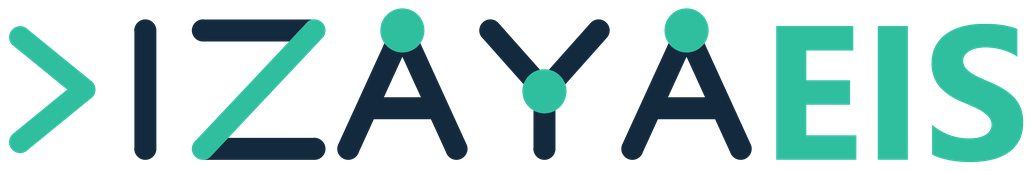
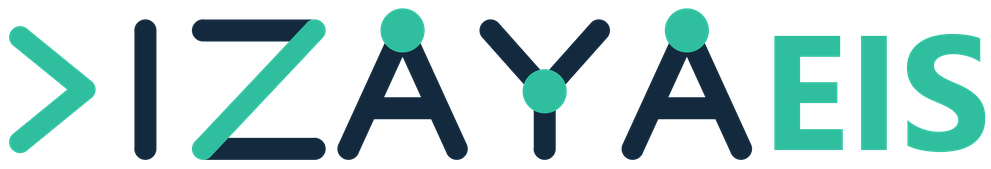
Scale down EIS text — previous pass was still oversized
Also fixes the actual mobile bug: the 640px/400px breakpoints never
had an .mk-eis-text override added despite the comment claiming they
would, so EIS stayed full-size while the wordmark shrank underneath
it. Adds those overrides now, and reduces the base/footer/BrandLockup
ratios and the newsletter's raster logo to match.

diff --git a/frontend/src/styles/marketing.css b/frontend/src/styles/marketing.css
@@ -48,7 +48,7 @@
    .mk-nav-logo at each breakpoint below — otherwise EIS stays fixed while
    the wordmark shrinks and ends up looking oversized on mobile. Ratio is
    ~0.87 * the wordmark's rendered height at each width. */
-.mk-eis-text { font-size: 27px; }
+.mk-eis-text { font-size: 23px; }
 .mk-nav-slogan { font-size: 11px; font-weight: 600; letter-spacing: 0.8px; text-transform: uppercase; color: var(--mk-slate); }
 .mk-page .ilg-n { stroke: var(--mk-navy); fill: none; stroke-width: 13; stroke-linecap: round; stroke-linejoin: round; }
 .mk-page .ilg-m { stroke: var(--mk-mint); fill: none; stroke-width: 13; stroke-linecap: round; stroke-linejoin: round; }
@@ -218,7 +218,7 @@
 .mk-footer-inner { max-width: 1160px; margin: 0 auto; display: grid; grid-template-columns: 1.4fr 1fr 1fr; gap: 40px; }
 .mk-footer-brand { display: flex; align-items: flex-start; margin-bottom: 14px; }
 .mk-footer-brand .mk-nav-logo { width: 88px; }
-.mk-footer-brand .mk-eis-text { font-size: 22px; }
+.mk-footer-brand .mk-eis-text { font-size: 19px; }
 .mk-footer-brand .mk-nav-slogan { display: none; }
 .mk-footer-blurb { font-size: 14px; color: var(--mk-slate); line-height: 1.6; max-width: 320px; }
 .mk-footer h3 { font-size: 13px; text-transform: uppercase; letter-spacing: 0.5px; color: var(--mk-navy); margin-bottom: 14px; }
@@ -332,6 +332,7 @@
   .mk-nav, .mk-hero-band, .mk-home-hero, .mk-section, .mk-app-cta, .mk-footer { padding-left: 20px; padding-right: 20px; }
   .mk-cta-band { padding: 36px 26px; }
   .mk-nav-logo { width: 84px; }
+  .mk-eis-text { font-size: 18px; }
   .mk-nav-right { gap: 12px; }
   .mk-nav-cta { padding: 8px 14px; font-size: 12.5px; }
 }
@@ -339,6 +340,7 @@
 @media (max-width: 400px) {
   .mk-nav { padding-left: 14px; padding-right: 14px; }
   .mk-nav-logo { width: 64px; }
+  .mk-eis-text { font-size: 14px; }
   .mk-nav-right { gap: 8px; }
   .mk-nav-login { font-size: 12px; }
   .mk-nav-cta { padding: 7px 11px; font-size: 11.5px; }

diff --git a/frontend/public/newsletter/eis-newsletter-trial-campaign.html b/frontend/public/newsletter/eis-newsletter-trial-campaign.html
@@ -111,7 +111,7 @@
                     <td align="left" valign="middle" style="padding:0;">
                       <table role="presentation" cellpadding="0" cellspacing="0" border="0"><tr>
                     <td style="padding:0; line-height:0; vertical-align:middle;">
-                      <img src="https://progressive-app-vert.vercel.app/newsletter/assets/img-01.png?v=3" width="157" height="26" alt="Izaya EIS" style="display:block; height:26px; width:auto; border:0;">
+                      <img src="https://progressive-app-vert.vercel.app/newsletter/assets/img-01.png?v=4" width="153" height="26" alt="Izaya EIS" style="display:block; height:26px; width:auto; border:0;">
                     </td>
                     <td style="padding:0 0 0 12px; vertical-align:middle; border-left:1px solid #E2E8F0; padding-left:12px;">
                       <p style="margin:0; font-family: -apple-system, BlinkMacSystemFont, 'Segoe UI', Helvetica, Arial, sans-serif; font-size: 12px; font-weight: 700; letter-spacing: 0.03em;" class="ink-muted">EARLY INTERVENTION<br>SIMPLIFIED</p>

diff --git a/frontend/public/newsletter/eis-newsletter.html b/frontend/public/newsletter/eis-newsletter.html
@@ -111,7 +111,7 @@
                     <td align="left" valign="middle" style="padding:0;">
                       <table role="presentation" cellpadding="0" cellspacing="0" border="0"><tr>
                     <td style="padding:0; line-height:0; vertical-align:middle;">
-                      <img src="https://progressive-app-vert.vercel.app/newsletter/assets/img-01.png?v=3" width="157" height="26" alt="Izaya EIS" style="display:block; height:26px; width:auto; border:0;">
+                      <img src="https://progressive-app-vert.vercel.app/newsletter/assets/img-01.png?v=4" width="153" height="26" alt="Izaya EIS" style="display:block; height:26px; width:auto; border:0;">
                     </td>
                     <td style="padding:0 0 0 12px; vertical-align:middle; border-left:1px solid #E2E8F0; padding-left:12px;">
                       <p style="margin:0; font-family: -apple-system, BlinkMacSystemFont, 'Segoe UI', Helvetica, Arial, sans-serif; font-size: 12px; font-weight: 700; letter-spacing: 0.03em;" class="ink-muted">EARLY INTERVENTION<br>SIMPLIFIED</p>

diff --git a/frontend/src/components/BrandLockup.jsx b/frontend/src/components/BrandLockup.jsx
@@ -9,8 +9,8 @@ import { BrandWordmarkRow } from '@/components/marketing/IzayaMark';
 // "small header" or "large centered" — add a preset here rather than a
 // one-off inline override if a third size is ever needed.
 const SIZES = {
-  sm: { wordmarkClassName: 'h-5 w-auto', eisFontSize: 17, taglineFontSize: 8, gap: 1 },
-  lg: { wordmarkClassName: 'h-9 w-auto', eisFontSize: 31, taglineFontSize: 11, gap: 3 },
+  sm: { wordmarkClassName: 'h-5 w-auto', eisFontSize: 15, taglineFontSize: 8, gap: 1 },
+  lg: { wordmarkClassName: 'h-9 w-auto', eisFontSize: 27, taglineFontSize: 11, gap: 3 },
 };
 
 export function BrandLockup({ size = 'sm', align = 'flex-start', className = '' }) {

diff --git a/frontend/src/components/marketing/IzayaMark.jsx b/frontend/src/components/marketing/IzayaMark.jsx
@@ -48,7 +48,7 @@ export function IzayaWordmark({ className }) {
 // responsive breakpoints, e.g. MarketingBrand's mk-eis-text below) instead
 // of the fixed `eisFontSize` px value — when given, fontSize is left off
 // the inline style so the class (and its media queries) actually wins.
-export function BrandWordmarkRow({ wordmarkClassName, eisFontSize = 27, eisClassName }) {
+export function BrandWordmarkRow({ wordmarkClassName, eisFontSize = 23, eisClassName }) {
   return (
     <span style={{ display: 'flex', alignItems: 'center', gap: 0 }}>
       <IzayaWordmark className={wordmarkClassName} />
